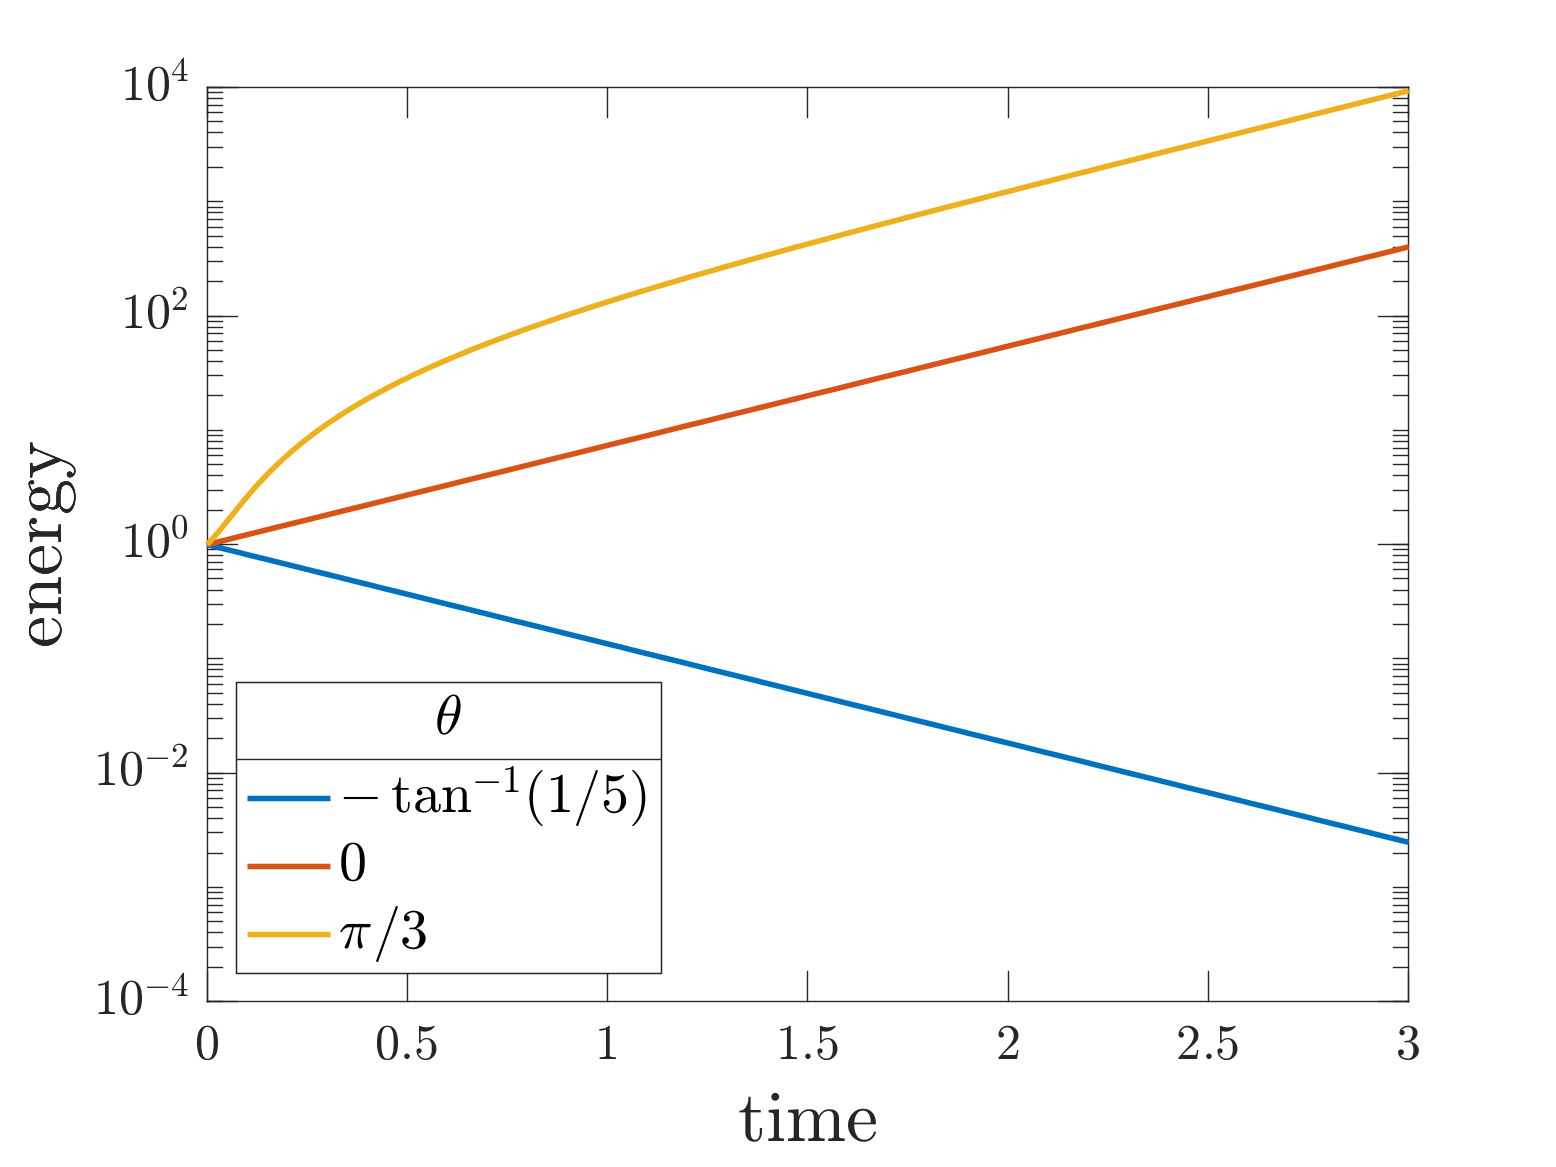
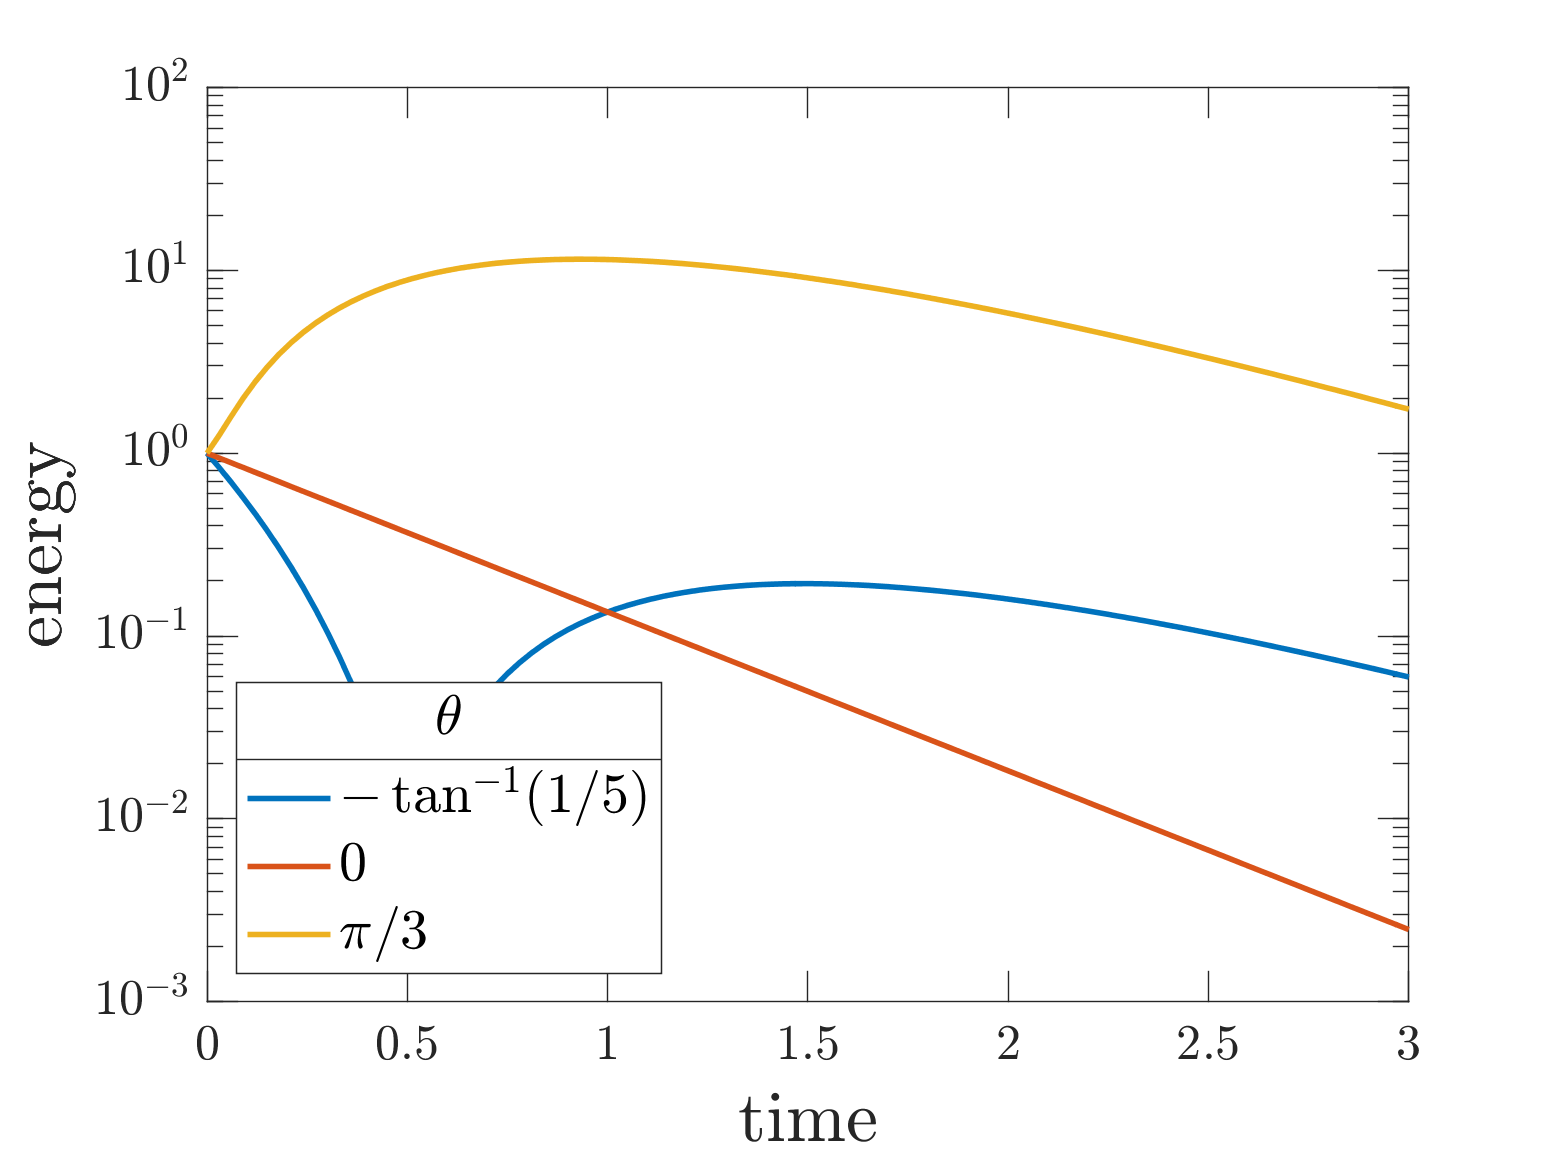
minor polishing in energyamplification.m script

diff --git a/lectures/assets/energyamplification.m b/lectures/assets/energyamplification.m
@@ -1,17 +1,27 @@
 clear all;
 
-A = [1 10;
-     0 -1];
-A = [0 1;
-     1 0];
+% isnormal = 0;
+
+
+for isnormal = [0, 1]
+
+if isnormal
+    A = [0 1;
+         1 0];
+ THETA = [-pi/3, -pi/4, pi/4];
+ filenamesav = 'energyamplifnormal.png';
+else
+    A = [1 10;
+         0 -1];
+ THETA = [-atan(1/5), 0, pi/3];
+ filenamesav = 'energyamplifnonnormal.png';
+end
  
  figure(1);clf;
  
  T = linspace(0, 3, 101);
  dt = T(2)-T(1);
  
- THETA = [-atan(1/5), 0, pi/3];
- THETA = [-pi/3, -pi/4, pi/4];
  
  for ith=1:length(THETA)
      theta = THETA(ith);
@@ -38,8 +48,14 @@ A = [0 1;
      hold on;
  end
  
-h = legend([pl(1), pl(2), pl(3)], '$-\pi/3$', '$-\pi/4$', '$\pi/4$');
+if isnormal
+    h = legend([pl(1), pl(2), pl(3)], '$-\pi/3$', '$-\pi/4$', '$\pi/4$');
+else
+    h = legend([pl(1), pl(2), pl(3)], '$-\tan^{-1}(1/5)$', '$0$', '$\pi/3$');
+end
 set(h, 'fontsize', 20, 'interpreter','latex', 'location', 'southwest')
 title(h, '$\theta$', 'fontsize', 20, 'interpreter','latex')
 set(gcf,'Renderer','painters','Color','w');
-print(gcf, '-dpng', '-r200', 'energyamplifnormal.png'); 
+print(gcf, '-dpng', '-r200', filanemasav); 
+
+end
